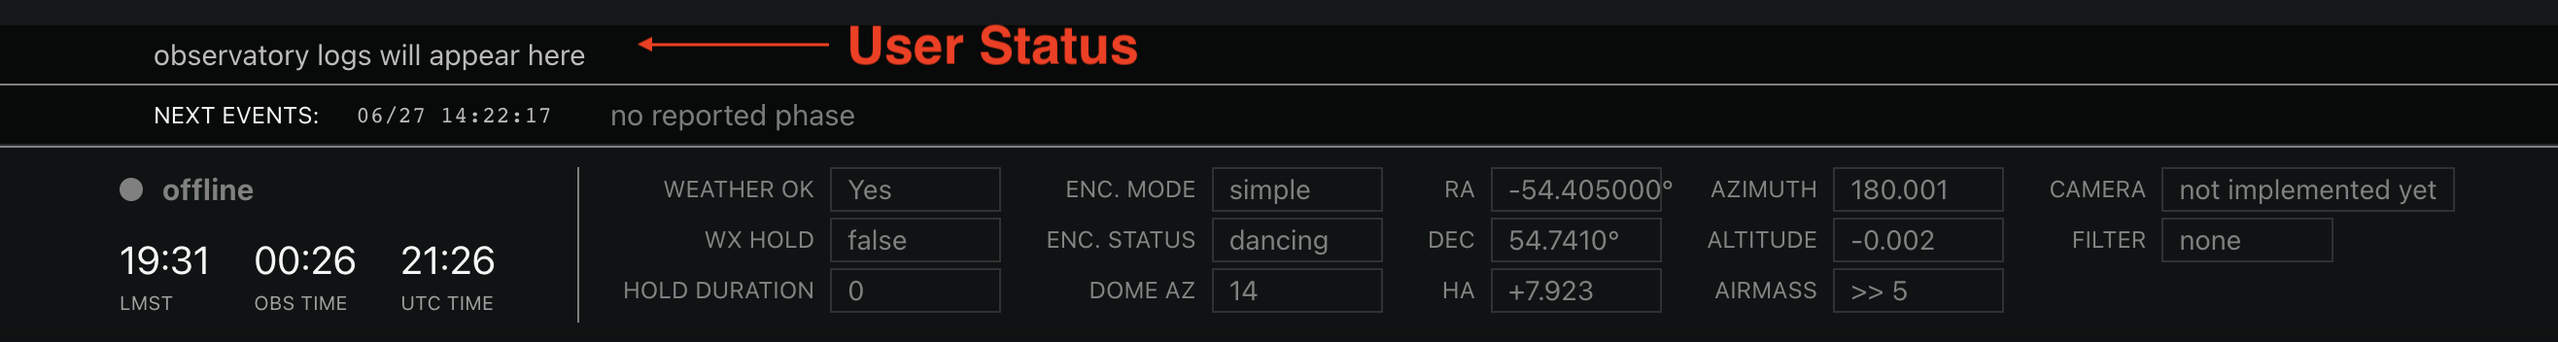
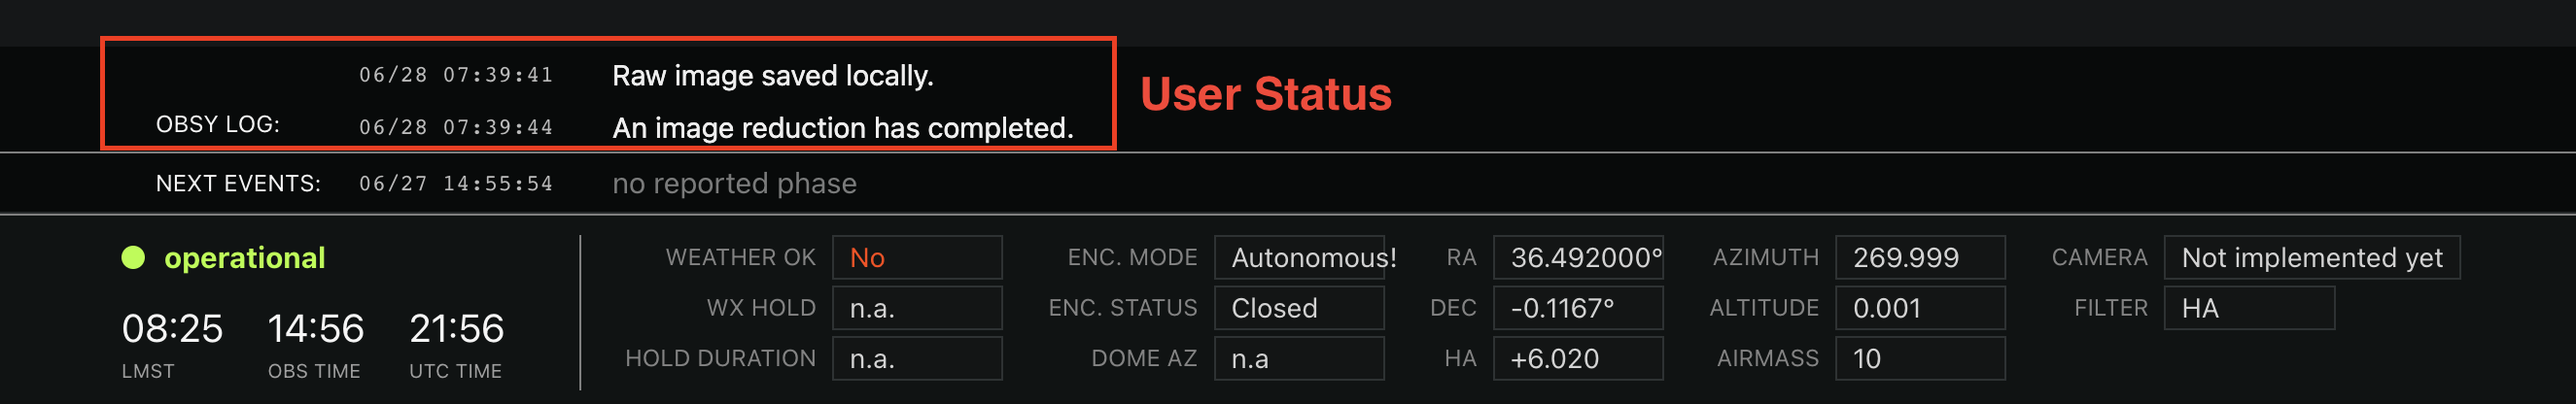
update image

diff --git a/README.md b/README.md
@@ -14,7 +14,8 @@ that convention in mind (even though the repository name has diverged).
 ## Description
 
 Observatory owners can post logs to describe in detail the processes occuring at an observatory 
-for users to follow along with as they occur, within a given timeframe.
+for users to follow along with as they occur. These are accessible for a given timeframe, defined
+for our purposes as 24 hours.
 
 ![Viewing a message as a user](images/user_view.png)
 
@@ -84,7 +85,7 @@ There are four parameters supplied in the body of a message:
 ```javascript
 {
     "site": "tst",  // (str) code for the site that will display the message
-    "log_message": "tst site will be inoperable 2022-10-10 UTC", // (str) content that the 
+    "log_message": "Slewing telescope...", // (str) content that the 
     // user will read.
     "log_level": "warning", //(str) can be ["debug", "info", "warning", "error", "critical"] 
     // following the python logging convention. Default (if none provided) is info.
